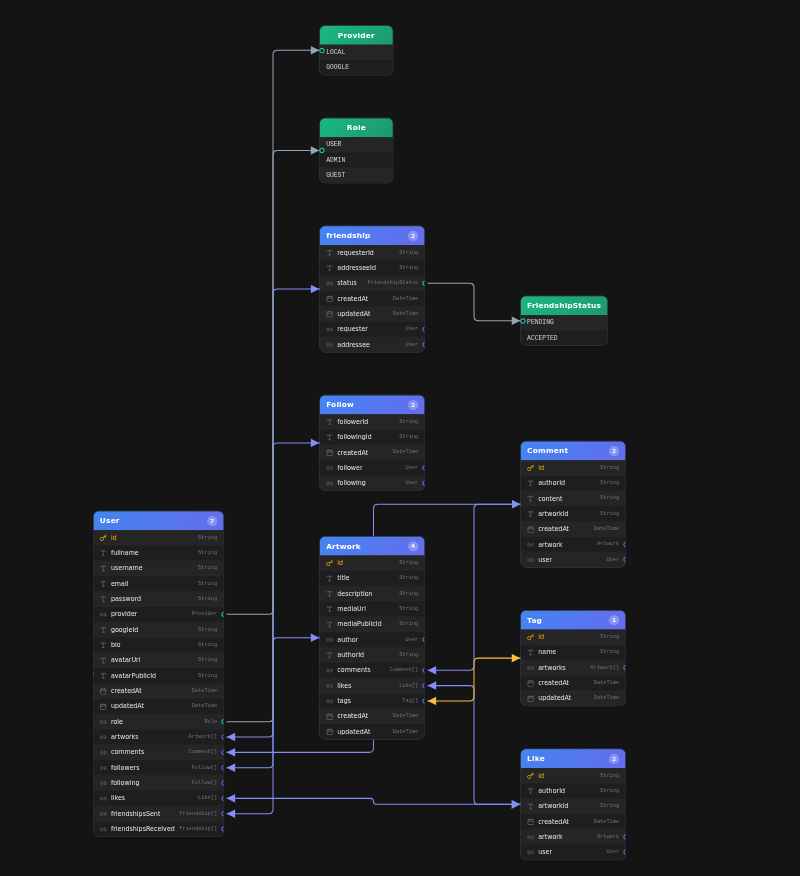
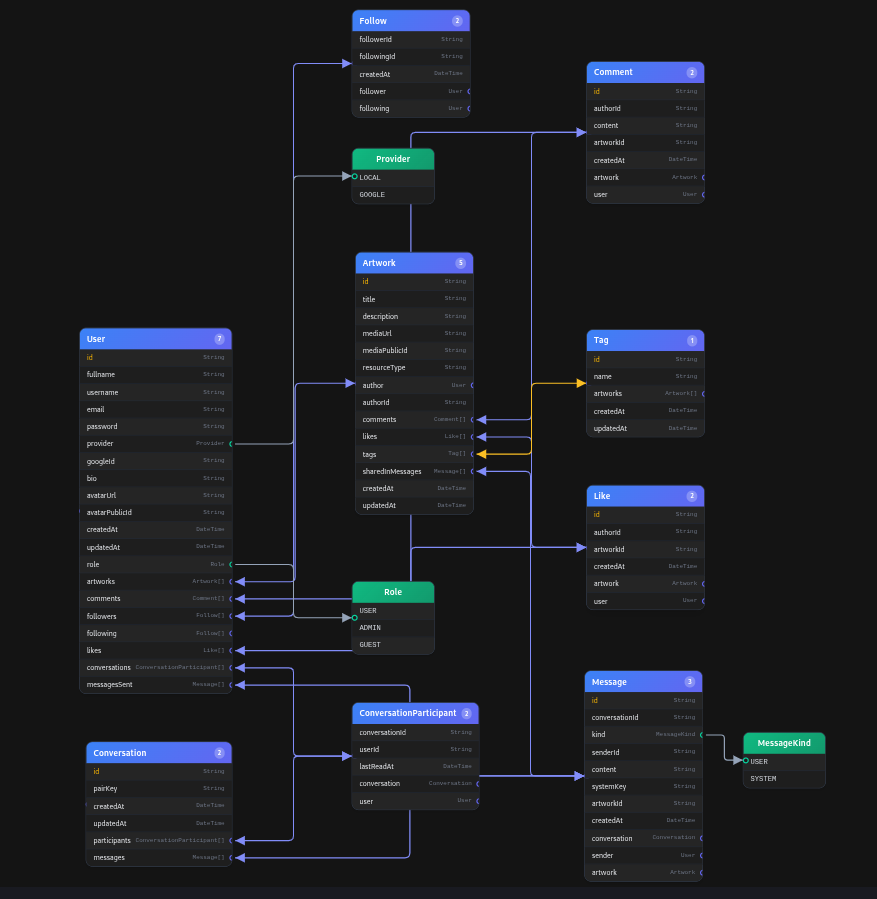
Delete friends model in prisma and file friends controller delete unused code in friends service and friends route

diff --git a/backend/src/friends/friends.service.ts b/backend/src/friends/friends.service.ts
@@ -12,98 +12,6 @@ export class FriendsService {
     private readonly Prisma: PrismaService,
     private readonly onlineStatusService: OnlineStatusService,
   ) {}
-
-  async requestFriendship(addresseUserId: string, ConnectedUserId: string) {
-    const adresseUser = await this.Prisma.user.findUnique({
-      where: { id: addresseUserId },
-    });
-    if (!adresseUser) {
-      throw new NotFoundException('User not found');
-    }
-    if (addresseUserId === ConnectedUserId) {
-      throw new BadRequestException(
-        'You cannot send a friend request to yourself',
-      );
-    }
-    const Friendship = await this.Prisma.friendship.findFirst({
-      where: {
-        OR: [
-          { requesterId: ConnectedUserId, addresseeId: addresseUserId },
-          { requesterId: addresseUserId, addresseeId: ConnectedUserId },
-        ],
-      },
-    });
-    if (Friendship) {
-      if (Friendship.status === 'PENDING') {
-        throw new BadRequestException('Friend request already sent');
-      }
-      if (Friendship.status === 'ACCEPTED') {
-        throw new BadRequestException('You are already friends');
-      }
-    }
-    await this.Prisma.friendship.create({
-      data: {
-        requesterId: ConnectedUserId,
-        addresseeId: addresseUserId,
-        status: 'PENDING',
-      },
-    });
-    return { message: 'Friend request sent' };
-  }
-
-  async acceptFriendship(requesterUserId: string, ConnectedUserId: string) {
-    const Friendship = await this.Prisma.friendship.findUnique({
-      where: {
-        requesterId_addresseeId: {
-          requesterId: requesterUserId,
-          addresseeId: ConnectedUserId,
-        },
-      },
-    });
-    if (!Friendship) {
-      throw new NotFoundException('Friend request not found');
-    }
-    if (Friendship.status === 'ACCEPTED') {
-      throw new BadRequestException('You are already friends');
-    }
-    await this.Prisma.friendship.update({
-      where: {
-        requesterId_addresseeId: {
-          requesterId: requesterUserId,
-          addresseeId: ConnectedUserId,
-        },
-      },
-      data: { status: 'ACCEPTED' },
-    });
-    return { message: 'Friend request accepted' };
-  }
-
-  async rejectFriendship(requesterUserId: string, ConnectedUserId: string) {
-    const Friendship = await this.Prisma.friendship.findUnique({
-      where: {
-        requesterId_addresseeId: {
-          requesterId: requesterUserId,
-          addresseeId: ConnectedUserId,
-        },
-      },
-    });
-    if (!Friendship) {
-      throw new NotFoundException('Friend request not found');
-    }
-    if (Friendship.status === 'ACCEPTED') {
-      throw new BadRequestException('You are already friends');
-    }
-    await this.Prisma.friendship.delete({
-      where: {
-        requesterId_addresseeId: {
-          requesterId: requesterUserId,
-          addresseeId: ConnectedUserId,
-        },
-      },
-    });
-    return { message: 'Friend request rejected' };
-  }
-
   // Friends = mutual follow: users this user follows who also follow back.
   // An unfollow mechanically breaks mutuality, so it breaks presence for free.
   async getFriends(ConnectedUserId: string) {
@@ -119,88 +27,6 @@ export class FriendsService {
     return mutuals.map(({ follower }) => {
       const { password, role, googleId, provider, ...rest } = follower;
       return rest;
-    });
-  }
-
-  async getFriendRequests(ConnectedUserId: string) {
-    const friendRequests = await this.Prisma.friendship.findMany({
-      where: {
-        addresseeId: ConnectedUserId,
-        status: 'PENDING',
-      },
-      include: {
-        requester: true,
-      },
-    });
-    if (friendRequests.length == 0) {
-      throw new NotFoundException('No friend requests found');
-    }
-    const result = friendRequests.map(({ requester, ...rest }) => ({
-      ...rest,
-      requester: {
-        id: requester.id,
-        username: requester.username,
-        email: requester.email,
-        bio: requester.bio,
-        avatarUrl: requester.avatarUrl,
-      },
-    }));
-    return result;
-  }
-
-  async getPendingFriendRequests(ConnectedUserId: string) {
-    const pendingFriendRequests = await this.Prisma.friendship.findMany({
-      where: {
-        requesterId: ConnectedUserId,
-        status: 'PENDING',
-      },
-      include: {
-        addressee: true,
-      },
-    });
-    if (pendingFriendRequests.length == 0) {
-      throw new NotFoundException('No pending friend requests found');
-    }
-    const result = pendingFriendRequests.map(({ addressee, ...rest }) => ({
-      ...rest,
-      addressee: {
-        id: addressee.id,
-        username: addressee.username,
-        email: addressee.email,
-        bio: addressee.bio,
-        avatarUrl: addressee.avatarUrl,
-      },
-    }));
-    return result;
-  }
-
-  async removeFriend(friendUserId: string, ConnectedUserId: string) {
-    const Friendship = await this.Prisma.friendship.findFirst({
-      where: {
-        OR: [
-          {
-            requesterId: ConnectedUserId,
-            addresseeId: friendUserId,
-            status: 'ACCEPTED',
-          },
-          {
-            requesterId: friendUserId,
-            addresseeId: ConnectedUserId,
-            status: 'ACCEPTED',
-          },
-        ],
-      },
-    });
-    if (!Friendship) {
-      throw new NotFoundException('Friendship not found');
-    }
-    return await this.Prisma.friendship.delete({
-      where: {
-        requesterId_addresseeId: {
-          requesterId: Friendship.requesterId,
-          addresseeId: Friendship.addresseeId,
-        },
-      },
     });
   }
 

diff --git a/backend/src/friends/friends.controller.ts b/backend/src/friends/friends.controller.ts
@@ -14,29 +14,10 @@ import { FriendsService } from './friends.service';
 export class FriendsController {
   constructor(private readonly friendsService: FriendsService) {}
 
-  @Post('request/:userId')
-  requestFriendship(@Param('userId') userId: string, @Req() req) {
-    return this.friendsService.requestFriendship(userId, req.user.id);
-  }
-
-  @Patch(':userId/request/accept')
-  acceptFriendship(@Param('userId') userId: string, @Req() req) {
-    return this.friendsService.acceptFriendship(userId, req.user.id);
-  }
 
   @Get()
   getFriends(@Req() req) {
     return this.friendsService.getFriends(req.user.id);
-  }
-
-  @Get('requests')
-  getFriendRequests(@Req() req) {
-    return this.friendsService.getFriendRequests(req.user.id);
-  }
-
-  @Get('requests/pending')
-  getPendingFriendRequests(@Req() req) {
-    return this.friendsService.getPendingFriendRequests(req.user.id);
   }
 
   @Get('online')
@@ -44,18 +25,4 @@ export class FriendsController {
     return this.friendsService.getOnlineFriends(req.user.id);
   }
 
-  @Get(':userId')
-  getFriendsOfUser(@Param('userId', ParseUUIDPipe) userId: string) {
-    return this.friendsService.getFriends(userId);
-  }
-
-  @Delete(':userId/request')
-  rejectFriendship(@Param('userId', ParseUUIDPipe) userId: string, @Req() req) {
-    return this.friendsService.rejectFriendship(userId, req.user.id);
-  }
-
-  @Delete(':userId')
-  removeFriend(@Param('userId', ParseUUIDPipe) userId: string, @Req() req) {
-    return this.friendsService.removeFriend(userId, req.user.id);
-  }
 }
